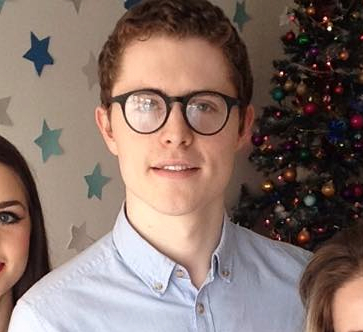
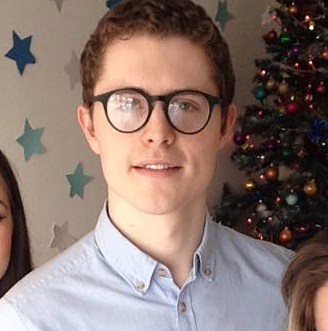
adjusted profile photo added custom breakpoint for new about section, added tooltip

diff --git a/app/styles/main.css b/app/styles/main.css
@@ -1420,7 +1420,7 @@ section.about {
   border-radius: 2px;
   box-shadow: 0 1px 3px rgba(0, 0, 0, 0.12), 0 1px 2px rgba(0, 0, 0, 0.24);
   margin-top: 1rem; }
-  @media screen and (min-width: 768px) {
+  @media screen and (min-width: 600px) {
     .about-full {
       display: -webkit-box;
       display: -moz-box;
@@ -1431,13 +1431,14 @@ section.about {
       display: flex; } }
   .about-full .about-full-image {
     width: 100%;
-    height: 12rem;
+    height: 14rem;
     background-image: url("../../images/profile.jpg");
     background-size: cover;
-    background-position: center; }
-    @media screen and (min-width: 768px) {
+    background-position: 50% 10%; }
+    @media screen and (min-width: 600px) {
       .about-full .about-full-image {
         height: auto;
+        min-height: 14rem;
         -webkit-box-flex: 1;
         -moz-box-flex: 1;
         box-flex: 1;
@@ -1452,7 +1453,7 @@ section.about {
           width: 31.76157%; } }
   .about-full .about-full-main {
     padding: 1rem; }
-    @media screen and (min-width: 768px) {
+    @media screen and (min-width: 600px) {
       .about-full .about-full-main {
         float: right;
         height: 100%;
@@ -1462,7 +1463,8 @@ section.about {
         .about-full .about-full-main:last-child {
           width: 65.88078%; } }
     .about-full .about-full-main .tooltip-text {
-      padding: 0.2rem 0.2rem 0 0.2rem; }
+      padding: 0.2rem 0.2rem 0 0.2rem;
+      margin-bottom: -0.3rem; }
 
 .container.about-more .view-container {
   background: #fff;

diff --git a/app/views/about.html b/app/views/about.html
@@ -32,8 +32,8 @@
 		<div class="about-full-image"></div>
 		<div class="about-full-main">
 			<h2>A Bit More About Me</h2>
-			<p>I'm 23 years old, and have been developing and designing for 1 year. When I'm not working, I'm taking care of <span tooltip="<img src='../../images/aria.jpg'/>">my daughter Aria</span>, cooking, baking, listening to music, and wearing nice clothes.</p>
-			<p>Cum perferendis obcaecati ea voluptatibus aliquid. Aspernatur adipisci numquam rem quae quos cupiditate voluptate debitis molestiae. Lorem ipsum dolor sit amet, consectetur adipisicing elit. Illum, accusantium?</p>
+			<p>I'm 23 years old, and have been developing and designing for 1 year. I'm super motivated, resourceful and a quick learner. I'm constantly looking for ways to improve my workflow and skills.</p>
+			<p>When I'm not working, I'm taking care of <span tooltip="<img src='../../images/aria.jpg'/>">my daughter Aria</span>, cooking, baking, listening to music, and wearing nice clothes.</p>
 		</div>
 	</div>
 </section>

diff --git a/app/sass/pages/_about.scss b/app/sass/pages/_about.scss
@@ -103,31 +103,33 @@ section.about {
 }
 .about-full {
 	@include card;
-	@include media($desktop) {
+	@include media(new-breakpoint(min-width 600px)) {
 		@include display(flex);
 	}
 	margin-top:1rem;
 	.about-full-image {
 		width:100%;
-		height:12rem;
+		height:14rem;
 		background-image:url('../../images/profile.jpg');
 		background-size:cover;
-		background-position:center;
-		@include media($desktop) {
+		background-position:50% 10%;
+		@include media(new-breakpoint(min-width 600px)) {
 			height:auto;
+			min-height:14rem;
 			@include flex(1);
 			@include span-columns(4, block-collapse);
 		}
 	}
 	.about-full-main {
 		padding:1rem;
-		@include media($desktop) {
+		@include media(new-breakpoint(min-width 600px)) {
 			float:right;
 			height:100%;
 			@include span-columns(8, block-collapse);
 		}
 		.tooltip-text {
 			padding:0.2rem 0.2rem 0 0.2rem;
+			margin-bottom:-0.3rem;
 		}
 	}
 }
